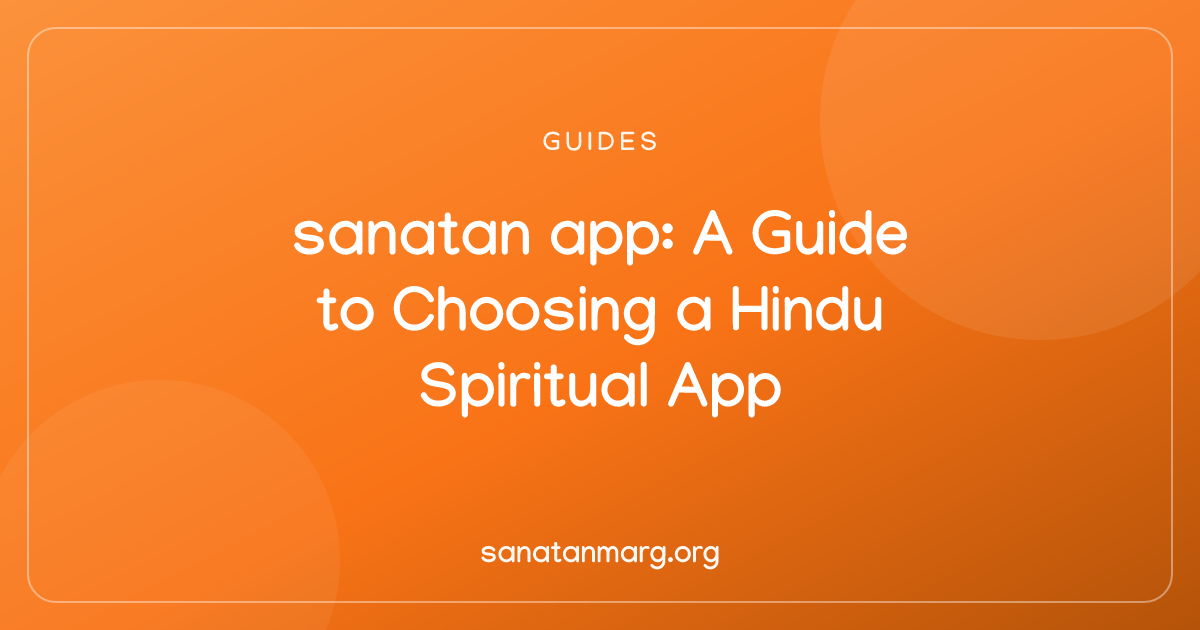
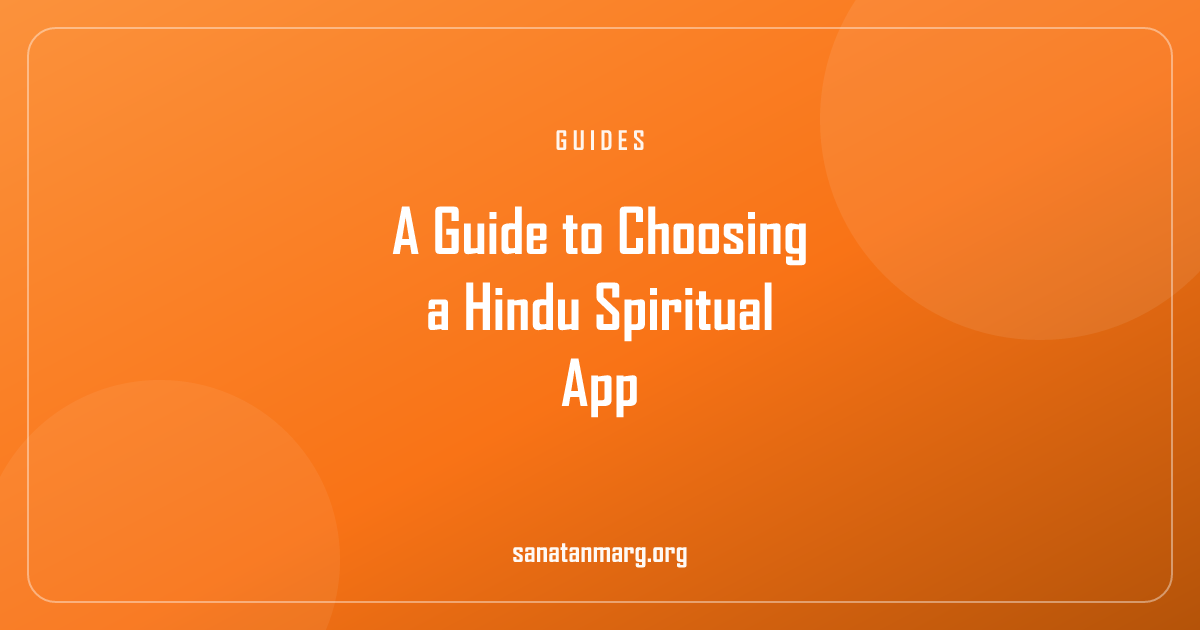
fix: brand-safe covers, title casing, credential-error hardening
- cover images strip the "sanatan app" competitor brand (image only;
  title, meta, body and slug keep the keyword for SEO)
- model now returns a brand-safe cover_title for the image headline
- enforce Title Case on English titles (keyword was injected lowercase)
- gsc.mjs: catch credential JSON parse errors so a malformed secret
  can never echo its prefix into the Actions log
- regenerate the published cover + capitalize its title

diff --git a/articles/sanatan-app-guide.md b/articles/sanatan-app-guide.md
@@ -1,5 +1,5 @@
 ---
-title: 'sanatan app: A Guide to Choosing a Hindu Spiritual App'
+title: 'Sanatan App: A Guide to Choosing a Hindu Spiritual App'
 description: >-
   Looking for a sanatan app? Learn what to look for in a trustworthy Hindu
   spiritual app and discover Sanatan Marg, a free Android choice for daily
